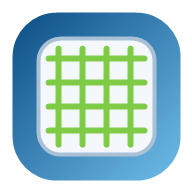
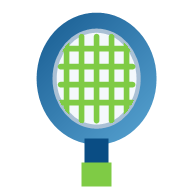
Add files via upload

diff --git a/index.html b/index.html
@@ -24,21 +24,30 @@
               <div class="brand-mark" aria-hidden="true">
                 <svg viewBox="0 0 88 88" role="presentation">
                   <defs>
-                    <linearGradient id="gridBadgeBg" x1="0" y1="0" x2="1" y2="1">
+                    <linearGradient id="racketHeadFillMain" x1="0" y1="0" x2="1" y2="1">
                       <stop offset="0%" stop-color="#0a4d84" />
                       <stop offset="100%" stop-color="#6fbde9" />
                     </linearGradient>
+                    <clipPath id="racketHeadClipMain">
+                      <ellipse cx="37" cy="31" rx="22" ry="27" transform="rotate(-18 37 31)" />
+                    </clipPath>
                   </defs>
-                  <rect x="6" y="6" width="76" height="76" rx="24" fill="url(#gridBadgeBg)" />
-                  <rect x="17" y="17" width="54" height="54" rx="14" fill="#f4f8fc" stroke="#aac0d5" stroke-width="2.2"/>
-                  <path d="M27 22V66" stroke="#7fcb45" stroke-width="3.1" stroke-linecap="round"/>
-                  <path d="M38 22V66" stroke="#7fcb45" stroke-width="3.1" stroke-linecap="round"/>
-                  <path d="M50 22V66" stroke="#7fcb45" stroke-width="3.1" stroke-linecap="round"/>
-                  <path d="M61 22V66" stroke="#7fcb45" stroke-width="3.1" stroke-linecap="round"/>
-                  <path d="M22 27H66" stroke="#7fcb45" stroke-width="3.1" stroke-linecap="round"/>
-                  <path d="M22 38H66" stroke="#7fcb45" stroke-width="3.1" stroke-linecap="round"/>
-                  <path d="M22 50H66" stroke="#7fcb45" stroke-width="3.1" stroke-linecap="round"/>
-                  <path d="M22 61H66" stroke="#7fcb45" stroke-width="3.1" stroke-linecap="round"/>
+                  <g transform="rotate(-18 37 31)">
+                    <ellipse cx="37" cy="31" rx="22" ry="27" fill="url(#racketHeadFillMain)" />
+                    <ellipse cx="37" cy="31" rx="15.4" ry="19.4" fill="#f4f8fc" stroke="#aac0d5" stroke-width="2.1" />
+                    <g clip-path="url(#racketHeadClipMain)">
+                      <path d="M27 10V52" stroke="#7fcb45" stroke-width="2.7" stroke-linecap="round"/>
+                      <path d="M34 9V53" stroke="#7fcb45" stroke-width="2.7" stroke-linecap="round"/>
+                      <path d="M40 9V53" stroke="#7fcb45" stroke-width="2.7" stroke-linecap="round"/>
+                      <path d="M47 10V52" stroke="#7fcb45" stroke-width="2.7" stroke-linecap="round"/>
+                      <path d="M20 20H54" stroke="#7fcb45" stroke-width="2.7" stroke-linecap="round"/>
+                      <path d="M19 28H55" stroke="#7fcb45" stroke-width="2.7" stroke-linecap="round"/>
+                      <path d="M19 36H55" stroke="#7fcb45" stroke-width="2.7" stroke-linecap="round"/>
+                      <path d="M20 44H54" stroke="#7fcb45" stroke-width="2.7" stroke-linecap="round"/>
+                    </g>
+                    <rect x="32.8" y="54.4" width="8.4" height="15.2" rx="2.8" fill="#0a4d84" />
+                    <rect x="31.6" y="66.8" width="10.8" height="10.2" rx="3.1" fill="#7fcb45" />
+                  </g>
                 </svg>
               </div>
               <div class="brand-text">

diff --git a/app.js b/app.js
@@ -14,6 +14,7 @@ const typeMenu = document.getElementById("typeMenu");
 const heroSection = document.getElementById("heroSection");
 const layoutGrid = document.getElementById("layoutGrid");
 const activeModeBar = document.getElementById("activeModeBar");
+const resultsPanel = document.querySelector(".results-panel");
 const heroMenuButton = document.getElementById("heroMenuButton");
 const heroMenuPanel = document.getElementById("heroMenuPanel");
 const typeDescriptionCard = document.getElementById("typeDescriptionCard");
@@ -2409,6 +2410,20 @@ function syncFocusedMode() {
       });
     }
   }
+
+  if (isFocused) {
+    scrollToResultsOnMobile();
+  }
+}
+
+function scrollToResultsOnMobile() {
+  if (!resultsPanel || typeof window === "undefined" || window.innerWidth > 760) {
+    return;
+  }
+
+  window.requestAnimationFrame(() => {
+    resultsPanel.scrollIntoView({ behavior: "smooth", block: "start" });
+  });
 }
 
 function syncTypeMenu() {
